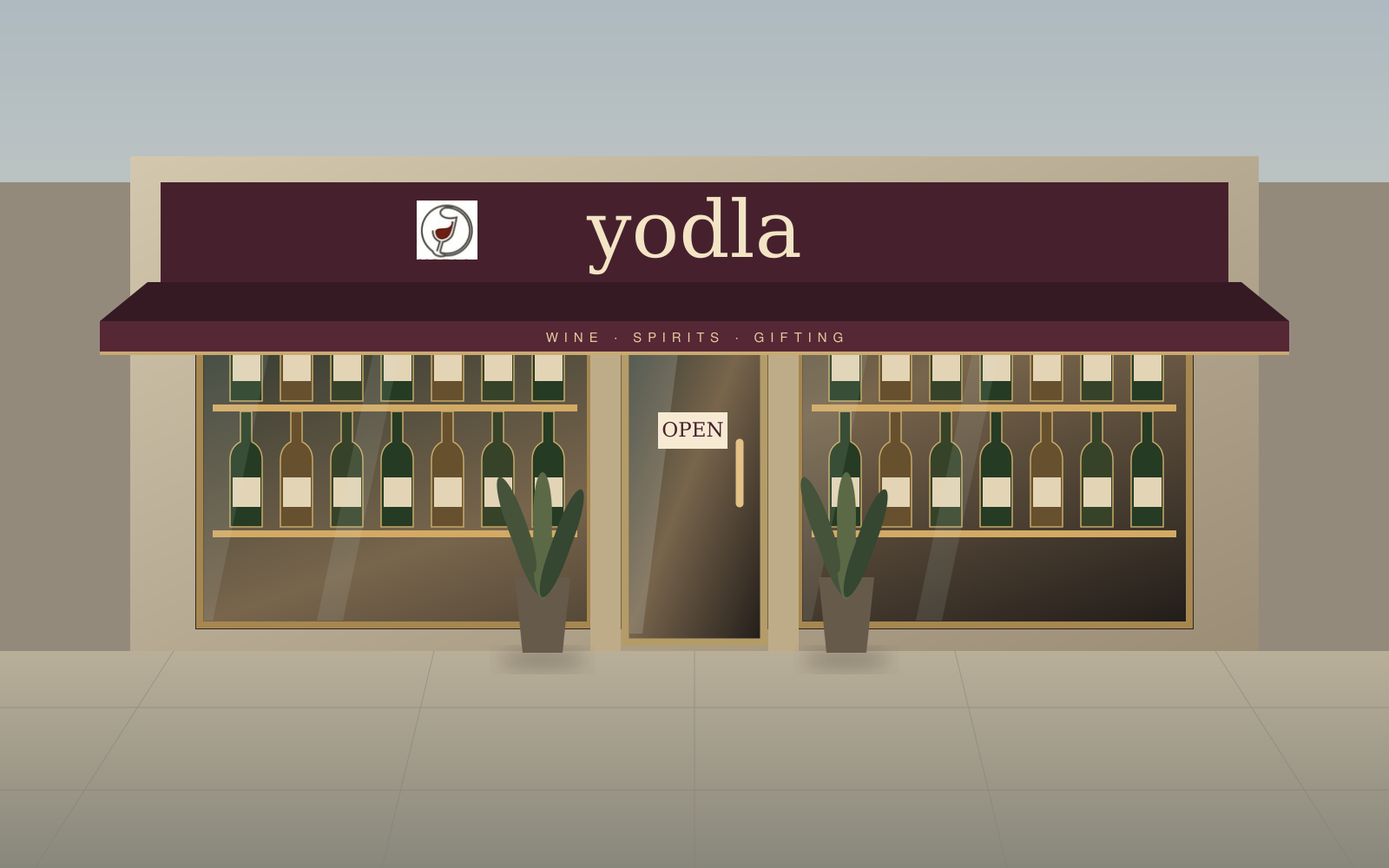
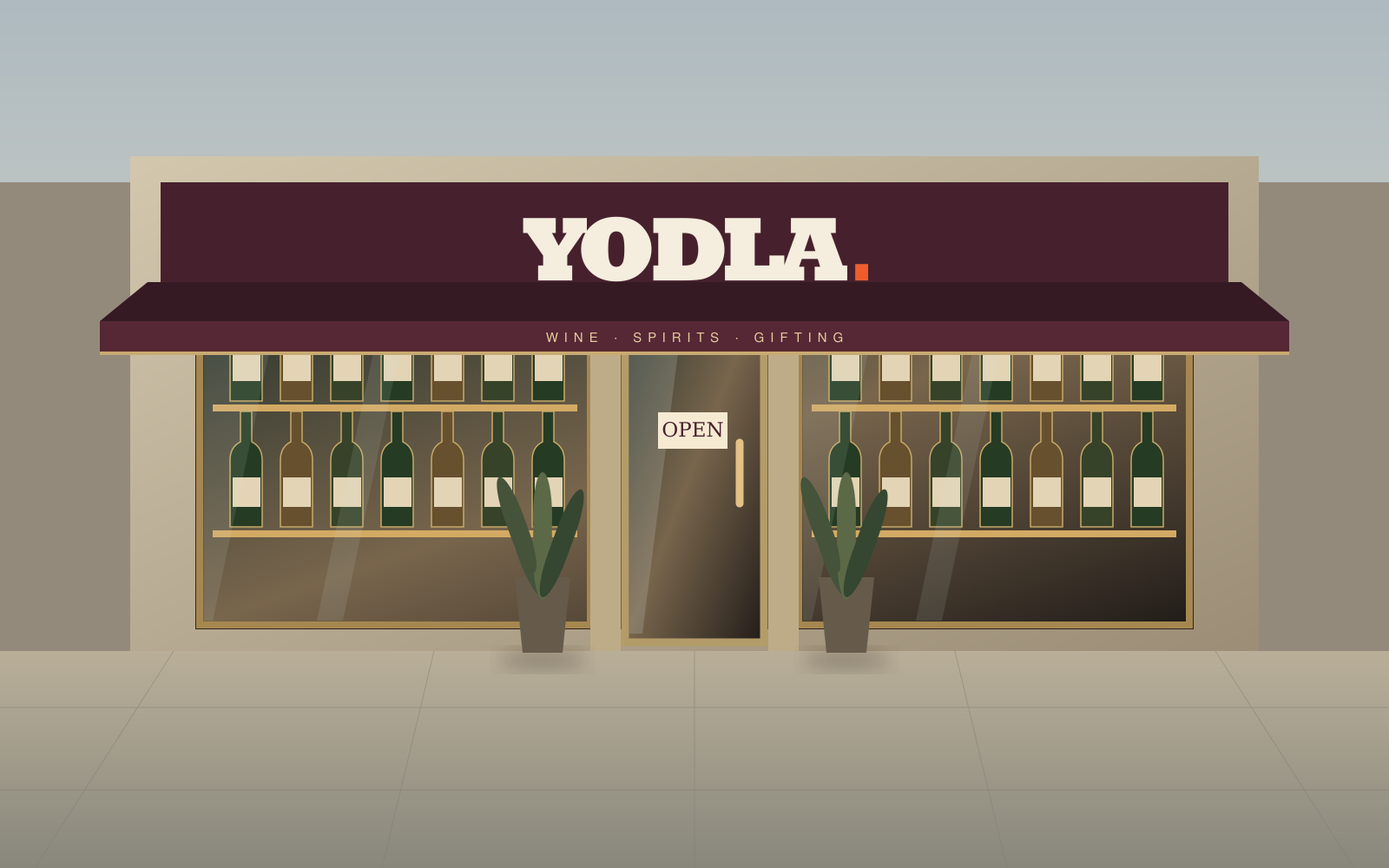
Use existing Yodla website branding throughout the store

Changed region(s): [[0.375, 0.217, 0.625, 0.341], [0.2812, 0.217, 0.3438, 0.31]]

diff --git a/vercel-site/boutique/boutique-scene.js b/vercel-site/boutique/boutique-scene.js
@@ -19,7 +19,7 @@ export function createBoutique({ container, products, onSelect, onStation, onPos
   renderer.toneMapping = THREE.ACESFilmicToneMapping;
   renderer.toneMappingExposure = .92;
   renderer.domElement.tabIndex = 0;
-  renderer.domElement.setAttribute('aria-label', 'Wine boutique. Click the floor to move, drag to look, and click a bottle to choose it. Section buttons also work with Tab and Enter.');
+  renderer.domElement.setAttribute('aria-label', 'Yodla drinks store. Click the floor to move, drag to look, and click a bottle to choose it. Section buttons also work with Tab and Enter.');
   container.append(renderer.domElement);
   const pmrem = new THREE.PMREMGenerator(renderer);
   const environmentScene = new RoomEnvironment();
@@ -90,6 +90,14 @@ export function createBoutique({ container, products, onSelect, onStation, onPos
       if (sub) { ctx.font = '19px Arial'; ctx.letterSpacing = '5px'; ctx.fillText(sub, w / 2, 190); }
     });
     return new THREE.Mesh(new THREE.PlaneGeometry(width, height), new THREE.MeshBasicMaterial({ map: texture, toneMapped:false }));
+  }
+  // Use the website wordmark without redrawing its lettering or adding another emblem.
+  const brandTextures = Object.fromEntries(['dark', 'light'].map(tone => {
+    const texture = new THREE.TextureLoader().load(tone === 'light' ? '/assets/brand/yodla-wordmark-light.png' : '/assets/brand/yodla-wordmark-4096.png');
+    texture.colorSpace = THREE.SRGBColorSpace; textures.push(texture); return [tone, texture];
+  }));
+  function brandMark(width, light = false) {
+    return new THREE.Mesh(new THREE.PlaneGeometry(width, width * 815 / 4096), new THREE.MeshBasicMaterial({map: brandTextures[light ? 'light' : 'dark'], transparent: true, depthWrite: false, toneMapped: false}));
   }
   function sign(text, sub, x, y, z, width = 3.2, rotation = 0) {
     const group = new THREE.Group(); group.position.set(x, y, z); group.rotation.y = rotation; scene.add(group);
@@ -165,7 +173,7 @@ export function createBoutique({ container, products, onSelect, onStation, onPos
   const arch = new THREE.Mesh(new THREE.TorusGeometry(2.2, .045, 8, 64, Math.PI), brass);
   arch.position.set(-2.7, 2.7, -9.67); scene.add(arch);
   for (const x of [-4.9, -.5]) box(.09, 2.7, .08, brass, x, 1.35, -9.67);
-  const wordmark = textPanel('yodla', 'A BOTTLE. A MOMENT.', 3.6, 1, { fontSize: 124 });
+  const wordmark = brandMark(3.2, true); wordmark.name = 'yodla-wall-wordmark';
   wordmark.position.set(-2.7, 2.3, -9.65); scene.add(wordmark);
   sign('THE CELLAR', 'EXPLORE AT YOUR OWN PACE', -2.7, 1.15, -9.63, 2.8);
 
@@ -277,7 +285,7 @@ export function createBoutique({ container, products, onSelect, onStation, onPos
     loop.scale.set(1.6,.7,1);loop.rotation.set(.55,side*.35,side*.25);loop.position.set(side*.12,.46,0);giftBox.add(loop);
     const tail=box(.075,.008,.22,satin,side*.09,.411,.13,giftBox);tail.rotation.y=side*.38;
   }
-  const plaque=textPanel('YODLA','',.24,.075,{background:'#321823',color:'#bda57c',fontSize:65});
+  const plaque=brandMark(.24,true);
   plaque.position.set(0,.24,.306);giftBox.add(plaque);
   const giftRibbonTop=box(.11, .005, .66, brass, 0, .419, 0, giftBox);
   const giftRibbonFront=box(.11, .35, .012, brass, 0, .18, .31, giftBox);
@@ -359,16 +367,10 @@ export function createBoutique({ container, products, onSelect, onStation, onPos
   }
   addCashier('gift','Nneka',3.4,-8.9);
   addCashier('checkout','Daniel',-4,5.7,Math.PI);
-  const logoTexture=new THREE.TextureLoader().load('/assets/brand/yodla-wordmark-4096-white.png');logoTexture.colorSpace=THREE.SRGBColorSpace;textures.push(logoTexture);
   for(const [x,z,rotation] of [[3.75,-7.484,0],[-3.95,4.263,Math.PI]]){
-    const logo=new THREE.Mesh(new THREE.PlaneGeometry(.85,.19),new THREE.MeshBasicMaterial({map:logoTexture,transparent:true,depthWrite:false}));logo.position.set(x,.58,z);logo.rotation.y=rotation;scene.add(logo);
+    const logo=brandMark(.85);logo.position.set(x,.58,z);logo.rotation.y=rotation;scene.add(logo);
   }
 
-  // Use the original cup emblem beside the retained cellar wordmark.
-  // Use the original PNG directly. Nested-image SVGs cannot be decoded reliably as WebGL textures.
-  const cupTexture=new THREE.TextureLoader().load('/assets/logo.png');cupTexture.colorSpace=THREE.SRGBColorSpace;
-  cupTexture.repeat.set(69/150,64/150);cupTexture.offset.set(40/150,54/150);textures.push(cupTexture);
-  const cup=new THREE.Mesh(new THREE.PlaneGeometry(.76,.76),new THREE.MeshBasicMaterial({map:cupTexture,toneMapped:false}));cup.position.set(-4.35,2.3,-9.61);cup.name='yodla-cup-emblem';scene.add(cup);
   // Limestone shopfront, a wine-coloured canopy, pavement and window displays.
   const facade=new THREE.Group();facade.name='boutique-exterior';scene.add(facade);
   const exteriorStone=mat('#c5b99f',.85),pavement=mat('#a29c8e',.9),canopy=mat('#3e1c29',.7);
@@ -377,8 +379,7 @@ export function createBoutique({ container, products, onSelect, onStation, onPos
   box(14,.42,.09,canopy,0,3.48,10.35,facade);
   box(14,.035,.045,brass,0,3.27,10.4,facade);
   box(14,.65,.16,canopy,0,4.12,9.42,facade);
-  const facadeMark=textPanel('yodla','',2.9,.64,{background:'#3e1c29',color:'#f3e4c6',fontSize:180});facadeMark.position.set(.1,4.14,9.52);facade.add(facadeMark);
-  const facadeCup=new THREE.Mesh(new THREE.PlaneGeometry(.57,.57),new THREE.MeshBasicMaterial({map:cupTexture,toneMapped:false}));facadeCup.position.set(-1.95,4.14,9.52);facade.add(facadeCup);
+  const facadeMark=brandMark(2.9,true);facadeMark.name='yodla-storefront-wordmark';facadeMark.position.set(0,4.14,9.52);facade.add(facadeMark);
   const collection=textPanel('WINE  ·  SPIRITS  ·  GIFTING','',2.8,.15,{background:'#3e1c29',color:'#f3ddb1',fontSize:45});collection.position.set(0,3.49,10.41);facade.add(collection);
   for(const side of [-1,1]){
     box(1.2,5.05,1.4,exteriorStone,side*7.35,2.525,8.9,facade);
@@ -443,7 +444,7 @@ export function createBoutique({ container, products, onSelect, onStation, onPos
   function parcelTag(person,message){
     const texture=mapCanvas(1024,768,(ctx,w,h)=>{
       ctx.fillStyle='#f2e8d3';ctx.fillRect(0,0,w,h);ctx.strokeStyle='#a38457';ctx.lineWidth=4;ctx.strokeRect(22,22,w-44,h-44);
-      ctx.fillStyle='#29151b';ctx.textAlign='center';ctx.font='bold 58px Georgia';ctx.fillText('yodla',w/2,100);
+      ctx.fillStyle='#29151b';ctx.textAlign='center';
       ctx.font='26px Arial';ctx.fillText('A GIFT FOR',w/2,175);
       const wrap=(value,max)=>{const words=String(value||'').split(/\s+/),lines=[''];for(const word of words){let i=lines.length-1;if((lines[i]+' '+word).length>max)lines.push(word);else lines[i]+=(lines[i]?' ':'')+word;}return lines;};
       ctx.font='bold 84px Georgia';wrap(person.name||person.firstName||'You',22).slice(0,3).forEach((line,i)=>ctx.fillText(line,w/2,270+i*83,930));
@@ -451,7 +452,8 @@ export function createBoutique({ container, products, onSelect, onStation, onPos
       ctx.font='20px Arial';ctx.fillText('PREPARED WITH CARE BY NNEKA',w/2,725);
     });
     const material=new THREE.MeshBasicMaterial({map:texture,toneMapped:false,side:THREE.DoubleSide});orderAssets.push(material);
-    return new THREE.Mesh(new THREE.PlaneGeometry(.58,.43),material);
+    const tag=new THREE.Mesh(new THREE.PlaneGeometry(.58,.43),material);
+    const logo=brandMark(.18);logo.position.set(0,.165,.001);tag.add(logo);return tag;
   }
   function beginOrder(order){
     endOrder();orderData=order;orderRoot.visible=true;carried.visible=false;giftBox.visible=false;
@@ -470,7 +472,7 @@ export function createBoutique({ container, products, onSelect, onStation, onPos
       const tie=new THREE.Mesh(new THREE.TorusGeometry(.055,.007,8,24),brass);tie.position.set(.17,h+.07,0);tie.rotation.x=Math.PI/2;g.add(tie);tie.visible=false;
       if(order.mode==='checkout'){
         for(const side of [-1,1]){const handle=new THREE.Mesh(new THREE.TorusGeometry(.12,.012,8,24,Math.PI),darkWood);handle.position.set(0,h,side*d/2);g.add(handle);}
-        const mark=textPanel('yodla','',.3,.13,{background:'#eee0c7',color:'#4c202c',fontSize:85});mark.position.set(0,.2,d/2+.012);g.add(mark);
+        const mark=brandMark(.3);mark.position.set(0,.2,d/2+.012);g.add(mark);
       }
       g.name="parcel-"+i;return {group:g,home:g.position.clone(),top,tag,tie};
     });
@@ -479,11 +481,11 @@ export function createBoutique({ container, products, onSelect, onStation, onPos
     pos.traverse(o=>{if(o.isMesh){o.userData.orderPOS=true;interactives.push(o);}});
     receipt=new THREE.Group();receipt.position.set(-.02,1.2,.98);orderRoot.add(receipt);receipt.visible=false;
     const receiptMap=mapCanvas(512,1024,(ctx,w,h)=>{
-      ctx.fillStyle='#f7f2e7';ctx.fillRect(0,0,w,h);ctx.fillStyle='#332520';ctx.textAlign='center';ctx.font='54px Georgia';ctx.fillText('yodla',w/2,85);ctx.font='24px monospace';ctx.fillText('SAMPLE RECEIPT',w/2,145);ctx.font='17px monospace';ctx.fillText('SIMULATED PAYMENT / NO ORDER',w/2,185);let y=240;ctx.textAlign='left';
+      ctx.fillStyle='#f7f2e7';ctx.fillRect(0,0,w,h);ctx.fillStyle='#332520';ctx.textAlign='center';ctx.font='24px monospace';ctx.fillText('SAMPLE RECEIPT',w/2,145);ctx.font='17px monospace';ctx.fillText('SIMULATED PAYMENT / NO ORDER',w/2,185);let y=240;ctx.textAlign='left';
       for(const parcel of order.parcels){if(order.mode==='gift'){ctx.fillText('For '+parcel.person.name,24,y,460);y+=35;}for(const line of parcel.lines){ctx.fillText(line.name+' x '+line.quantity,24,y,460);y+=35;}if(y>800)break;}
       ctx.fillText('TOTAL NGN '+order.total.toLocaleString('en-NG'),24,900);ctx.fillText('THANK YOU',24,965);
     });const receiptMaterial=new THREE.MeshBasicMaterial({map:receiptMap,toneMapped:false});orderAssets.push(receiptMaterial);
-    const receiptLabel=new THREE.Mesh(new THREE.PlaneGeometry(.29,.58),receiptMaterial);receiptLabel.rotation.x=-Math.PI/2;receipt.add(receiptLabel);
+    const receiptLabel=new THREE.Mesh(new THREE.PlaneGeometry(.29,.58),receiptMaterial);receiptLabel.rotation.x=-Math.PI/2;receipt.add(receiptLabel);const receiptLogo=brandMark(.17);receiptLogo.position.set(0,.248,.001);receiptLabel.add(receiptLogo);
     renderer.shadowMap.needsUpdate=true;
   }
   function positionArm(rig,arm,target){

diff --git a/vercel-site/boutique/store.html b/vercel-site/boutique/store.html
@@ -3,19 +3,19 @@
 <head>
   <meta charset="utf-8">
   <meta name="viewport" content="width=device-width, initial-scale=1, viewport-fit=cover, interactive-widget=resizes-content">
-  <meta name="description" content="Step inside the Yodla boutique. Browse the cellar, choose a bottle, or make a personal gift in the Gift Atelier.">
+  <meta name="description" content="Step inside the Yodla store. Browse the cellar, choose a bottle, or make a personal gift in the Gift Atelier.">
   <meta name="robots" content="noindex,nofollow">
-  <title>Yodla · The Boutique</title>
+  <title>Yodla · Wine, Spirits & Gifts</title>
   <link rel="icon" href="/favicon.png">
   <link rel="stylesheet" href="/css/boutique.css"><link rel="stylesheet" href="/css/boutique-counter.css">
   <script type="importmap">{"imports":{"three":"/js/vendor/three/three.module.js"}}</script>
 </head>
 <body>
   <main id="boutique">
-    <div id="scene" aria-label="Interactive wine boutique"></div>
+    <div id="scene" aria-label="Interactive wine store"></div>
     <div class="scene-vignette" aria-hidden="true"></div>
     <header class="store-header">
-      <a class="wordmark" href="/index.html" aria-label="Yodla boutique entrance"><img class="brand-logo brand-logo--light" src="/assets/brand/yodla-wordmark.svg" alt="Yodla"><span>THE BOUTIQUE</span></a>
+      <a class="wordmark" href="/index.html" aria-label="Yodla store entrance"><img class="brand-logo brand-logo--light" src="/assets/brand/yodla-wordmark-light.png" alt="Yodla"><span>WINE · SPIRITS · GIFTS</span></a>
       <nav aria-label="Store navigation">
         <button data-visit="wines">The cellar</button>
         <button data-visit="gifts">Gift Atelier <span aria-hidden="true">↗</span></button>
@@ -47,25 +47,25 @@
     </aside>
     <footer class="store-controls">
       <p id="movement-hint">Click the floor to move <span>·</span> drag to look <span>·</span> select a bottle</p>
-      <div><button id="music-toggle" aria-pressed="false" aria-label="Toggle calm background music"><span>Sound off</span></button><button id="motion-toggle" aria-pressed="false">Reduce motion</button><button id="help-button" aria-label="How to explore the boutique">?</button></div>
+      <div><button id="music-toggle" aria-pressed="false" aria-label="Toggle calm background music"><span>Sound off</span></button><button id="motion-toggle" aria-pressed="false">Reduce motion</button><button id="help-button" aria-label="How to explore the store">?</button></div>
     </footer>
-    <nav class="mobile-stations" aria-label="Tap to move around the boutique">
+    <nav class="mobile-stations" aria-label="Tap to move around the store">
       <button data-visit="wines">Cellar</button><button data-visit="spirits">Spirits</button><button data-visit="gifts">Gifting</button><button data-visit="checkout">Checkout</button>
     </nav>
-    <section id="store-goodbye" class="store-goodbye" aria-labelledby="goodbye-title" hidden><img src="/assets/brand/yodla-cup.svg" alt="Yodla wine cup"><span class="eyebrow">UNTIL NEXT TIME</span><h1 id="goodbye-title" tabindex="-1">Thank you for visiting.</h1><p>Enjoy your bottles. We’ll be here for the next occasion.</p><button class="primary" id="reenter-store">Step back inside</button></section>
+    <section id="store-goodbye" class="store-goodbye" aria-labelledby="goodbye-title" hidden><img class="brand-logo brand-logo--light" src="/assets/brand/yodla-wordmark-light.png" alt="Yodla"><span class="eyebrow">UNTIL NEXT TIME</span><h1 id="goodbye-title" tabindex="-1">Thank you for visiting.</h1><p>Enjoy your bottles. We’ll be here for the next occasion.</p><button class="primary" id="reenter-store">Step back inside</button></section>
     <section id="counter-session" class="counter-session" aria-label="At the counter" hidden>
       <div class="counter-session-head"><span id="counter-host-name"></span><button id="counter-cancel" class="secondary">Return to shopping</button></div>
       <div id="counter-fallback" class="counter-room-fallback" hidden></div>
       <div class="counter-session-info"><p id="counter-status" role="status" aria-live="polite"></p><div id="counter-tags"></div><div id="counter-actions"></div></div>
     </section>
-    <dialog id="payment-dialog" class="payment-dialog" aria-labelledby="payment-title"><form method="dialog" id="close-payment-form"><button class="close" aria-label="Close payment">×</button></form><img class="brand-logo" src="/assets/brand/yodla-wordmark.svg" alt="Yodla"><span class="eyebrow">DEMO PAYMENT GATEWAY</span><h2 id="payment-title">Your payment</h2><p id="payment-total"></p><p>This concept simulates payment. No card details or money are collected.</p><button class="primary" id="simulate-payment">Simulate successful payment</button><button class="secondary" id="decline-payment">Simulate declined payment</button><p id="payment-status" role="status"></p></dialog>
+    <dialog id="payment-dialog" class="payment-dialog" aria-labelledby="payment-title"><form method="dialog" id="close-payment-form"><button class="close" aria-label="Close payment">×</button></form><img class="brand-logo" src="/assets/brand/yodla-wordmark-4096.png" alt="Yodla"><span class="eyebrow">DEMO PAYMENT GATEWAY</span><h2 id="payment-title">Your payment</h2><p id="payment-total"></p><p>This concept simulates payment. No card details or money are collected.</p><button class="primary" id="simulate-payment">Simulate successful payment</button><button class="secondary" id="decline-payment">Simulate declined payment</button><p id="payment-status" role="status"></p></dialog>
     <dialog id="store-dialog" aria-labelledby="panel-title">
-      <div class="dialog-top"><button id="panel-back" class="panel-back" aria-label="Go back" hidden>Back</button><a class="wordmark" href="/index.html" aria-label="Yodla boutique"><img class="brand-logo" src="/assets/brand/yodla-wordmark.svg" alt="Yodla"></a><button class="close" id="close-panel" aria-label="Return to the store">×</button></div>
+      <div class="dialog-top"><button id="panel-back" class="panel-back" aria-label="Go back" hidden>Back</button><a class="wordmark" href="/index.html" aria-label="Yodla store"><img class="brand-logo" src="/assets/brand/yodla-wordmark-4096.png" alt="Yodla"></a><button class="close" id="close-panel" aria-label="Return to the store">×</button></div>
       <div id="dialog-notice" class="dialog-notice" role="status" aria-live="polite" hidden></div>
       <div id="panel-content"></div><div class="dialog-settings"><label for="music-volume">Music volume<input id="music-volume" type="range" min="0" max="0.1" step="0.005" value="0.035"></label></div>
     </dialog>
     <div class="toast" id="toast" role="status" aria-live="polite" hidden></div>
-    <noscript><div class="no-script">The interactive boutique requires JavaScript. <a href="/bag.html">Open your basket</a> or <a href="/help.html">get help with your order</a>.</div></noscript>
+    <noscript><div class="no-script">The interactive store requires JavaScript. <a href="/bag.html">Open your basket</a> or <a href="/help.html">get help with your order</a>.</div></noscript>
   </main>
   <script type="module" src="/js/boutique.js"></script>
 </body>

diff --git a/vercel-site/boutique/boutique.js b/vercel-site/boutique/boutique.js
@@ -252,7 +252,7 @@ function beginCounter(){
   if(!orderSession || orderSession.started)return;
   orderSession.started=true;scene?.pause(true);scene?.beginOrder(orderSession.order);
   $('#counter-fallback').hidden=Boolean(scene);
-  if(!scene)$('#counter-fallback').innerHTML='<div class="fallback-wall"><small>Simplified counter · 3D unavailable on this device</small><img src="/assets/brand/yodla-wordmark.svg" alt="Yodla"></div><div class="fallback-worktop"><div class="fallback-basket"><span>Your basket</span><div id="fallback-drinks"></div></div><div id="fallback-transfer"></div><div class="fallback-parcels" id="fallback-parcels"></div></div>';
+  if(!scene)$('#counter-fallback').innerHTML='<div class="fallback-wall"><small>Simplified counter · 3D unavailable on this device</small><img src="/assets/brand/yodla-wordmark-4096.png" alt="Yodla"></div><div class="fallback-worktop"><div class="fallback-basket"><span>Your basket</span><div id="fallback-drinks"></div></div><div id="fallback-transfer"></div><div class="fallback-parcels" id="fallback-parcels"></div></div>';
   const order=orderSession.order;
   $('#counter-tags').innerHTML=order.mode==='gift'?order.parcels.map((p,i)=>`<details class="gift-tag-details"><summary>Gift tag · ${esc(p.person.name||p.person.firstName)}</summary><div data-user-content><strong>For ${esc(p.person.name||p.person.firstName)}</strong><p class="gift-message">${esc(p.message||'A little something for you.')}</p><small>Delivery label</small><p>${esc(p.person.address)}, ${esc(p.person.state)}</p>${p.lines.map(l=>`<p>${esc(l.name)} × ${l.quantity}</p>`).join('')}</div></details>`).join(''):'';
   orderAnimation=requestAnimationFrame(tickOrder);
@@ -273,7 +273,7 @@ function tickOrder(now){
     $('#counter-pay').addEventListener('click',openPayment);
   }
   if(session.paid && !session.printed){
-    session.printed=true;$('#counter-actions').innerHTML=`<details class="counter-receipt"><summary>Your sample receipt</summary><article class="printed-receipt"><img class="brand-logo" src="/assets/brand/yodla-wordmark.svg" alt="Yodla"><strong>SAMPLE RECEIPT</strong><small>Simulated payment · no order placed</small>${session.order.parcels.map(p=>`<div>${session.order.mode==='gift'?`<b>For ${esc(p.person.name)}</b>`:''}${p.lines.map(l=>`<p><span>${esc(l.name)} × ${l.quantity}</span><span>${money(l.price*l.quantity)}</span></p>`).join('')}</div>`).join('')}<p><span>Delivery${session.order.mode==='gift'&&session.order.wrap?' & gift wrap':''}</span><span>${money(session.order.total-session.order.parcels.reduce((sum,p)=>sum+p.lines.reduce((s,l)=>s+l.price*l.quantity,0),0))}</span></p><p><b>Total</b><b>${money(session.order.total)}</b></p><small>Prepared by ${session.order.mode==='gift'?'Nneka':'Daniel'} · Thank you</small></article></details>`;
+    session.printed=true;$('#counter-actions').innerHTML=`<details class="counter-receipt"><summary>Your sample receipt</summary><article class="printed-receipt"><img class="brand-logo" src="/assets/brand/yodla-wordmark-4096.png" alt="Yodla"><strong>SAMPLE RECEIPT</strong><small>Simulated payment · no order placed</small>${session.order.parcels.map(p=>`<div>${session.order.mode==='gift'?`<b>For ${esc(p.person.name)}</b>`:''}${p.lines.map(l=>`<p><span>${esc(l.name)} × ${l.quantity}</span><span>${money(l.price*l.quantity)}</span></p>`).join('')}</div>`).join('')}<p><span>Delivery${session.order.mode==='gift'&&session.order.wrap?' & gift wrap':''}</span><span>${money(session.order.total-session.order.parcels.reduce((sum,p)=>sum+p.lines.reduce((s,l)=>s+l.price*l.quantity,0),0))}</span></p><p><b>Total</b><b>${money(session.order.total)}</b></p><small>Prepared by ${session.order.mode==='gift'?'Nneka':'Daniel'} · Thank you</small></article></details>`;
     $('#counter-cancel').hidden=true;
   }
   if(frame.stage==='complete'&&!$('#counter-shop-more')){

diff --git a/test/boutique-scene.test.js b/test/boutique-scene.test.js
@@ -27,13 +27,13 @@ test('room simulation transfers exact drinks into five parcels, pays, resets and
   const order=createOrder({mode:'gift',recipients:Array.from({length:5},(_,i)=>({person:{name:'Recipient '+i},message:'Message '+i,lines:[{...products[i%2],quantity:2}]})),wrap:true,total:60000});
   frames.shift()?.(clock);assert.ok(lastCamera.position.z>9.3,'the opening view is outside');
   assert.ok(lastScene.getObjectByName('boutique-exterior'));
-  const emblem=lastScene.getObjectByName('yodla-cup-emblem');assert.equal(emblem.material.map.userData.source,'/assets/logo.png');assert.equal(emblem.material.map.repeat.x,69/150);
+  const wordmark=lastScene.getObjectByName('yodla-wall-wordmark');assert.equal(wordmark.material.map.userData.source,'/assets/brand/yodla-wordmark-light.png');assert.equal(lastScene.getObjectByName('yodla-cup-emblem'),undefined);
   const advance=seconds=>{for(let t=0;t<seconds;t+=.04){clock+=40;frames.shift()?.(clock);}};
   room.enter();assert.equal(chimes,0,'the bell waits until the customer reaches the door');advance(6);assert.equal(chimes,1);assert.ok(lastCamera.position.z<8);
   const crossing=positions.filter(p=>p.position.z>=9&&p.position.z<=10.1);assert.ok(crossing.length>0);assert.ok(crossing.every(p=>Math.abs(p.position.x)<.01&&p.doorAngle<-1.2),'the camera passes through an open door');
   room.pause(true);room.beginOrder(order);
   for(let elapsed=0;elapsed<37;elapsed+=.15){room.updateOrder(orderFrame(order,elapsed,{paid:elapsed>20,paidElapsed:Math.max(0,elapsed-20)}));frames.shift()?.(clock+=150);lastScene.updateMatrixWorld(true);const tag=lastScene.getObjectByName('gift-tag-0');assert.equal(tag.material.toneMapped,false);assert.equal(tag.material.isMeshBasicMaterial,true);lastScene.traverse(o=>{assert.ok(o.position.toArray().every(Number.isFinite));assert.ok(o.quaternion.toArray().every(Number.isFinite));});}
   assert.equal(lastScene.getObjectByName('customer-hands').visible,true);
-  room.endOrder();room.beginOrder(createOrder({mode:'checkout',lines:[{...products[1],quantity:3}]}));room.updateOrder({stage:'payment',packed:3,active:null,basketProgress:1,unitProgress:0,paid:false});room.endOrder();room.leave();assert.equal(chimes,2);assert.ok(lastScene.getObjectByName('glass-entrance'));assert.ok(lastScene.getObjectByName('yodla-cup-emblem'));room.showExterior();room.enter();advance(6);assert.equal(chimes,3);assert.ok(lastCamera.position.z<8);room.showExterior();room.visit('gifts');advance(15);assert.equal(arrivals.at(-1),'gifts');assert.equal(chimes,4);room.dispose();
+  room.endOrder();room.beginOrder(createOrder({mode:'checkout',lines:[{...products[1],quantity:3}]}));room.updateOrder({stage:'payment',packed:3,active:null,basketProgress:1,unitProgress:0,paid:false});room.endOrder();room.leave();assert.equal(chimes,2);assert.ok(lastScene.getObjectByName('glass-entrance'));assert.ok(lastScene.getObjectByName('yodla-wall-wordmark'));room.showExterior();room.enter();advance(6);assert.equal(chimes,3);assert.ok(lastCamera.position.z<8);room.showExterior();room.visit('gifts');advance(15);assert.equal(arrivals.at(-1),'gifts');assert.equal(chimes,4);room.dispose();
  }finally{for(const [key,value]of previous){if(value===undefined)delete globalThis[key];else globalThis[key]=value;}}
 });

diff --git a/vercel-site/boutique/boutique.css b/vercel-site/boutique/boutique.css
@@ -27,3 +27,6 @@ body:not(.entered) .store-map,body:not(.entered) .store-location,body:not(.enter
 
 .fallback-mode .welcome{top:auto}
 body:not(.entered) #scene{background:#b9b29f url('/assets/brand/boutique-exterior.png') center/cover}body:not(.entered) .store-address{background:#2f2028e8;padding:6px 10px;text-shadow:none}@media(max-width:760px){body:not(.entered) #scene,.fallback-mode:not(.entered) #scene{background-image:url('/assets/brand/boutique-exterior.png'),linear-gradient(#b9b29f,#655d4f);background-repeat:no-repeat;background-size:100% auto,cover;background-position:center 112px,center}body:not(.entered) .store-address{left:4%;font-size:7px;letter-spacing:.6px;padding:5px 7px}.fallback-mode:not(.entered) .loading.error{top:140px;max-width:88%;font-size:8px;padding:5px 7px}}
+
+/* Keep the website logo colours and proportions on dark surfaces. */
+.brand-logo{display:block;width:112px;height:auto;object-fit:contain}.brand-logo--light{filter:none!important}.store-goodbye>img.brand-logo{width:180px;height:auto;margin:0 auto 25px}.fallback-wall img{filter:none;background:#f2ede3;padding:8px}

diff --git a/vercel-site/boutique/README.md b/vercel-site/boutique/README.md
@@ -71,3 +71,5 @@ The opening camera now starts on the pavement facing the full shopfront. Limesto
 Step inside follows a dedicated approach and threshold path before resuming the existing interior collision routes. The door opens far enough to clear the passage. Audio unlocks on the visitor’s click, then the chime sounds as the camera reaches the threshold. Section shortcuts can queue their destination after entry. The entry simulation checks the initial exterior camera, the passage through the open door, delayed chime, completed arrival, and re-entry.
 
 The black wine-cup square was repaired by removing the nested-image SVG from WebGL texture loading. Both the cellar wall and exterior fascia use the original PNG directly, with texture repeat/offset selecting only the cup emblem. A test checks the source path and crop. The separately authored SVG exterior is retained as source for the raster fallback, which avoids nested SVG image-loading differences.
+
+Branding uses the existing website YODLA wordmark, including its orange dot. The light PNG preserves the source artwork pixel for pixel with dark lettering recoloured for dark surfaces. Storefront, wall, counter, bag, tag and receipt marks share that artwork. The cup image and recreated serif wordmarks are removed from the experience. Public labels call it the Yodla store.
